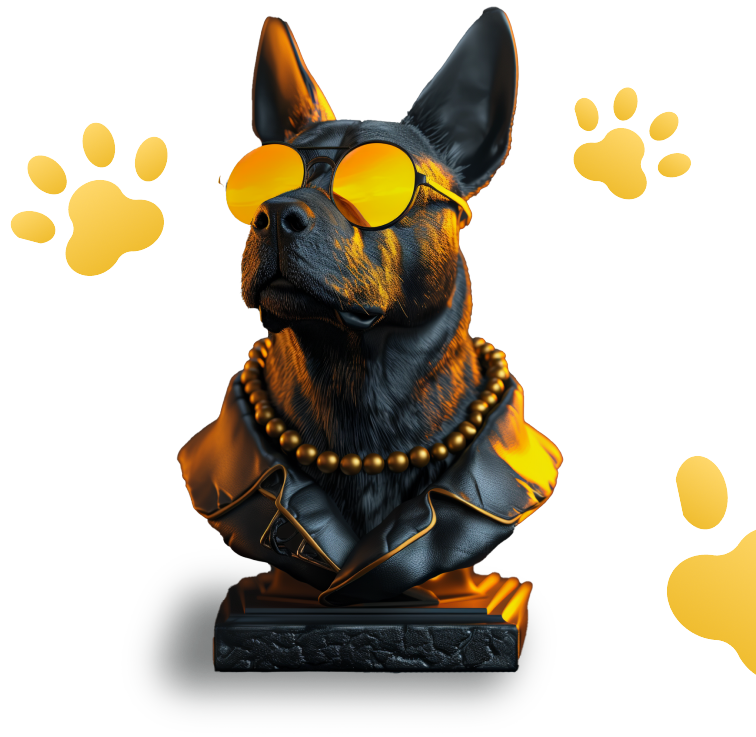
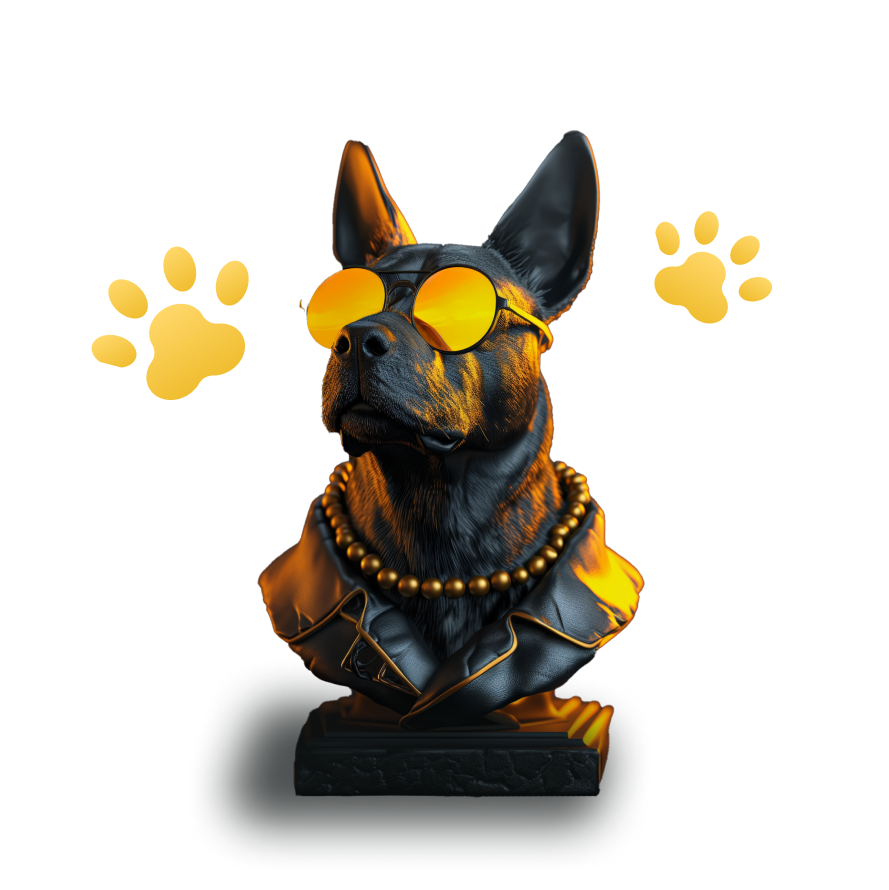
feat: add Barkchain Tokenomics section

diff --git a/index.html b/index.html
@@ -37,7 +37,7 @@
         class="container mx-auto flex flex-col-reverse items-center justify-evenly md:flex-row gap-8 px-8"
       >
         <div class="max-w-sm" data-aos="fade-up">
-          <h1 class="text-6xl lg:text-8xl font-bold uppercase">
+          <h1 class="text-6xl lg:text-8xl uppercase">
             <span>DOGA</span><br />
             <span class="text-yellow-500">TOSHI</span>
           </h1>
@@ -114,8 +114,8 @@
 
     <!-- 3 Steps to Know the Project -->
     <section class="bg-features-bg-pattern bg-cover">
-      <div class="container mx-auto px-8 py-28 grid gap-10" data-aos="fade-up">
-        <div class="text-center grid gap-2">
+      <div class="container mx-auto px-8 py-28 grid gap-10">
+        <div class="text-center grid gap-2" data-aos="fade-up">
           <h2 class="text-yellow-500 text-4xl uppercase">
             3 steps to know the project
           </h2>
@@ -125,13 +125,16 @@
           </p>
         </div>
 
-        <div class="flex flex-wrap justify-center gap-8">
-          <div class="flex-1 max-w-80">
+        <div
+          class="flex flex-wrap justify-center gap-8 flex-col sm:flex-row"
+          data-aos="fade-up"
+        >
+          <div class="flex-1 w-full sm:max-w-80">
             <div class="flex flex-col gap-4 p-4">
               <img
                 src="./assets/images/bone.png"
                 alt="Bone"
-                class="w-24 mx-auto"
+                class="w-24 sm:mx-auto"
               />
               <h3 class="text-yellow-500 text-2xl uppercase">
                 1. $Dog<span class="text-white">A</span>
@@ -143,12 +146,12 @@
               </p>
             </div>
           </div>
-          <div class="flex-1 max-w-80">
+          <div class="flex-1 w-full sm:max-w-80">
             <div class="flex flex-col gap-4 p-4">
               <img
                 src="./assets/images/dog-paw.png"
                 alt="Dog Paw"
-                class="w-24 mx-auto"
+                class="w-24 sm:mx-auto"
               />
               <h3 class="text-yellow-500 text-2xl uppercase">
                 2. Paw Patro<span class="text-white">l</span>
@@ -159,12 +162,12 @@
               </p>
             </div>
           </div>
-          <div class="flex-1 max-w-80">
+          <div class="flex-1 w-full sm:max-w-80">
             <div class="flex flex-col gap-4 p-4">
               <img
                 src="./assets/images/dog.png"
                 alt="Dog"
-                class="w-24 mx-auto"
+                class="w-24 sm:mx-auto"
               />
               <h3 class="text-yellow-500 text-2xl uppercase">
                 3. Mutt-fi<span class="text-white">A</span>
@@ -181,7 +184,69 @@
           src="./assets/images/no-cats.png"
           alt="no cats past this point"
           class="max-w-full mx-auto"
+          data-aos="fade-up"
         />
+      </div>
+    </section>
+
+    <!-- BARKCHAIN Tokenomics -->
+    <section
+      class="bg-features-bg-pattern sm:bg-gradient-pattern bg-cover uppercase py-20"
+    >
+      <div
+        class="container mx-auto flex flex-col-reverse items-center justify-center md:flex-row gap-8 px-8"
+        data-aos="fade-up"
+      >
+        <div class="grid gap-8 xl:pl-24">
+          <h3 class="text-4xl text-yellow-500 hidden sm:block">
+            BARKCHAIN Tokenomics
+          </h3>
+
+          <div>
+            <h4 class="text-xl text-yellow-500">LEASH LAWS 🔑</h4>
+            <ul>
+              <li>95% DOGMMUNITY</li>
+              <li>5% BARK BRIGADE KOLS</li>
+              <li>100% TGE</li>
+              <li>100% FETCH & BURN UNSOLD TOKENS</li>
+            </ul>
+          </div>
+
+          <div>
+            <h4 class="text-xl text-yellow-500">
+              🤑💰 WHERE TO BURY THE BONE? 💰🤑
+            </h4>
+
+            <ul>
+              <li>1% LIQUIDITY SPLASH POOL</li>
+              <li>99% ENDLESS BUYBACK TREAT</li>
+              <li>TREATS</li>
+            </ul>
+          </div>
+
+          <div>
+            <h4 class="text-xl text-yellow-500">Stay for the treat 🦴</h4>
+            <p class="capitalize">
+              Hold your bone and get ready to be thrown some treats
+            </p>
+          </div>
+        </div>
+
+        <div class="">
+          <img
+            src="./assets/images/dog-statue-w-paws.png"
+            alt="dog image with paws"
+            class="max-w-full lg:mr-auto hidden sm:block"
+          />
+
+          <img
+            src="./assets/images/dog-in-suit.png"
+            alt="dog dressed in suit"
+            class="max-w-full sm:hidden"
+          />
+        </div>
+
+        <h3 class="text-4xl text-yellow-500 sm:hidden">BARKCHAIN Tokenomics</h3>
       </div>
     </section>
   </body>

diff --git a/assets/js/script.js b/assets/js/script.js
@@ -10,6 +10,7 @@ tailwind.config = {
       backgroundImage: {
         'hero-pattern': "url('./assets/images/hero-pattern.png')",
         'features-bg-pattern': "url('./assets/images/features-bg-pattern.png')",
+        'gradient-pattern': "url('./assets/images/gradient-pattern.png')",
       },
       fontFamily: {
         'titan-one': ['Titan One', 'sans-serif'],
